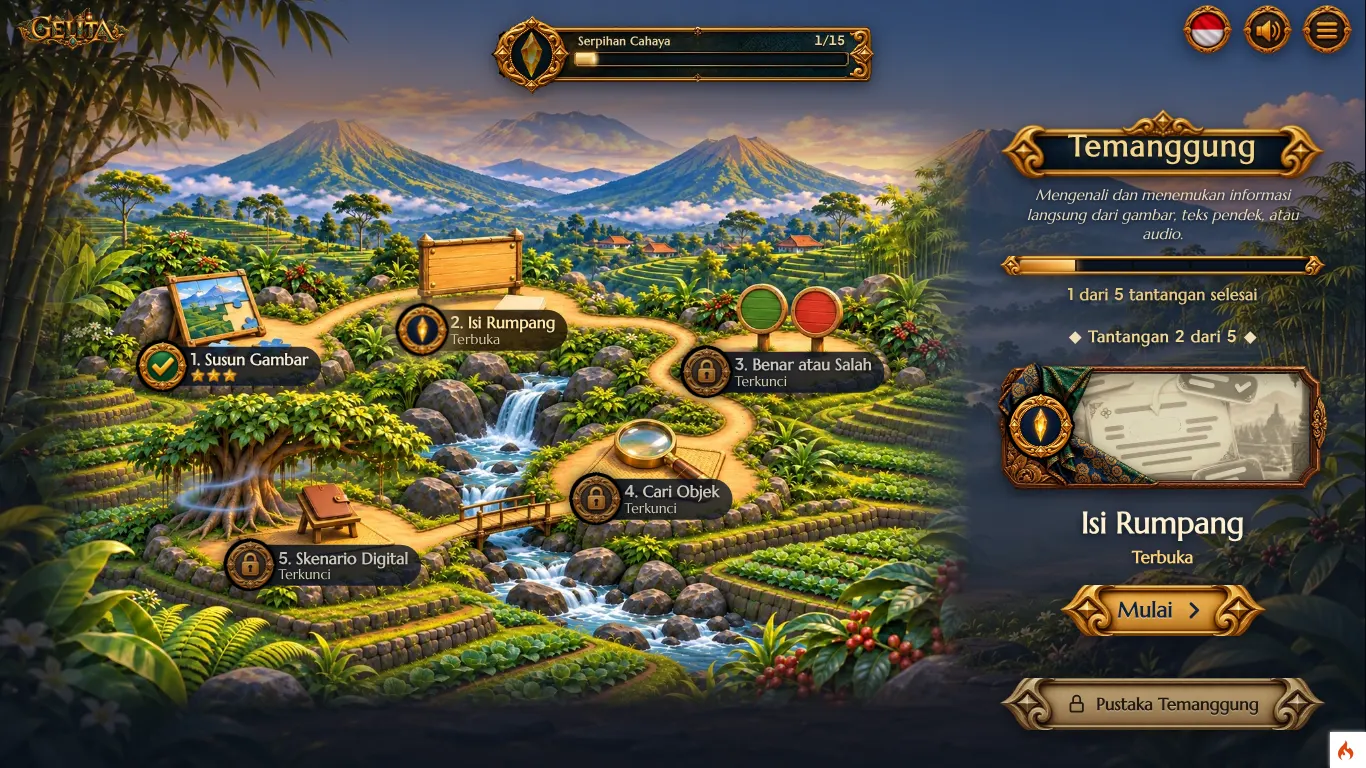
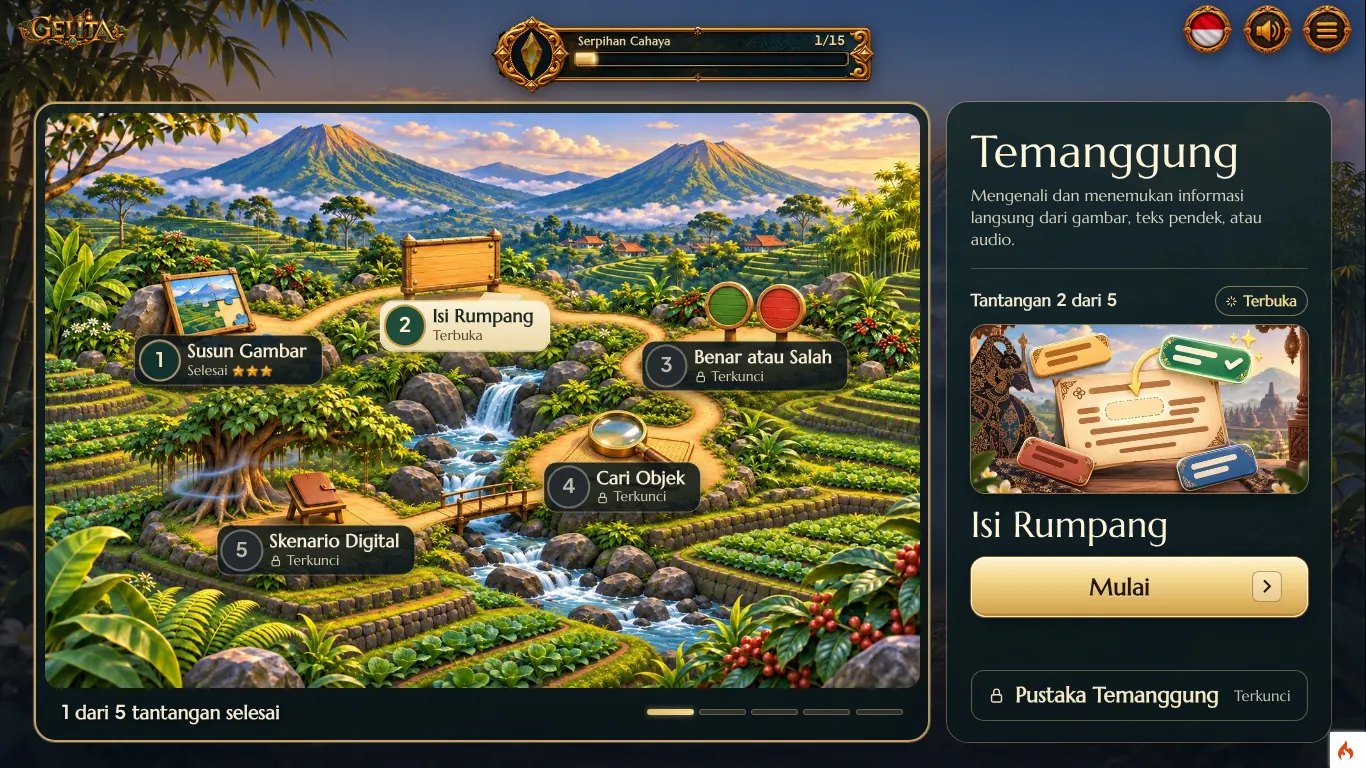
Bridge-story link without an outline; refreshed screenshots

diff --git a/public/assets/css/game.css b/public/assets/css/game.css
@@ -1570,9 +1570,10 @@ body.is-gate-art .scene::after { background: linear-gradient(to left, rgba(1, 30
 .node-card-actions { display: grid; gap: .5rem; margin-top: .25rem; }
 #stage .map-level .node-action { justify-content: space-between; width: 100%; min-height: 3.5rem; height: 3.5rem; padding-inline: 1.25rem; font-size: 1.375rem; }
 #stage .map-level .node-action > span { flex: 1; text-align: center; }
-.map-level .node-bridge { display: inline-flex; align-items: center; gap: .375rem; min-height: 2.25rem; margin-left: auto; padding: 0 .75rem; border-radius: var(--radius-pill); box-shadow: inset 0 0 0 .0625rem rgba(223, 192, 135, .45); color: var(--gold-300); font-size: .875rem; font-weight: 700; text-decoration: none; white-space: nowrap; }
+/* A plain text link, no outline (owner, 19 November 2026); 36 dp tall to tap */
+.map-level .node-bridge { display: inline-flex; align-items: center; gap: .375rem; min-height: 2.25rem; margin-left: auto; padding: 0 .25rem; color: var(--gold-300); font-size: .875rem; font-weight: 700; text-decoration: none; white-space: nowrap; }
 .map-level .node-bridge .icon { width: .875rem; height: .875rem; }
-@media (hover: hover) { .map-level .node-bridge:hover { background: rgba(223, 192, 135, .12); } }
+@media (hover: hover) { .map-level .node-bridge:hover { color: #FFE7A8; text-decoration: underline; } }
 
 /* Pustaka {wilayah}: a quiet row at the card's foot */
 .map-side-foot { display: grid; }
